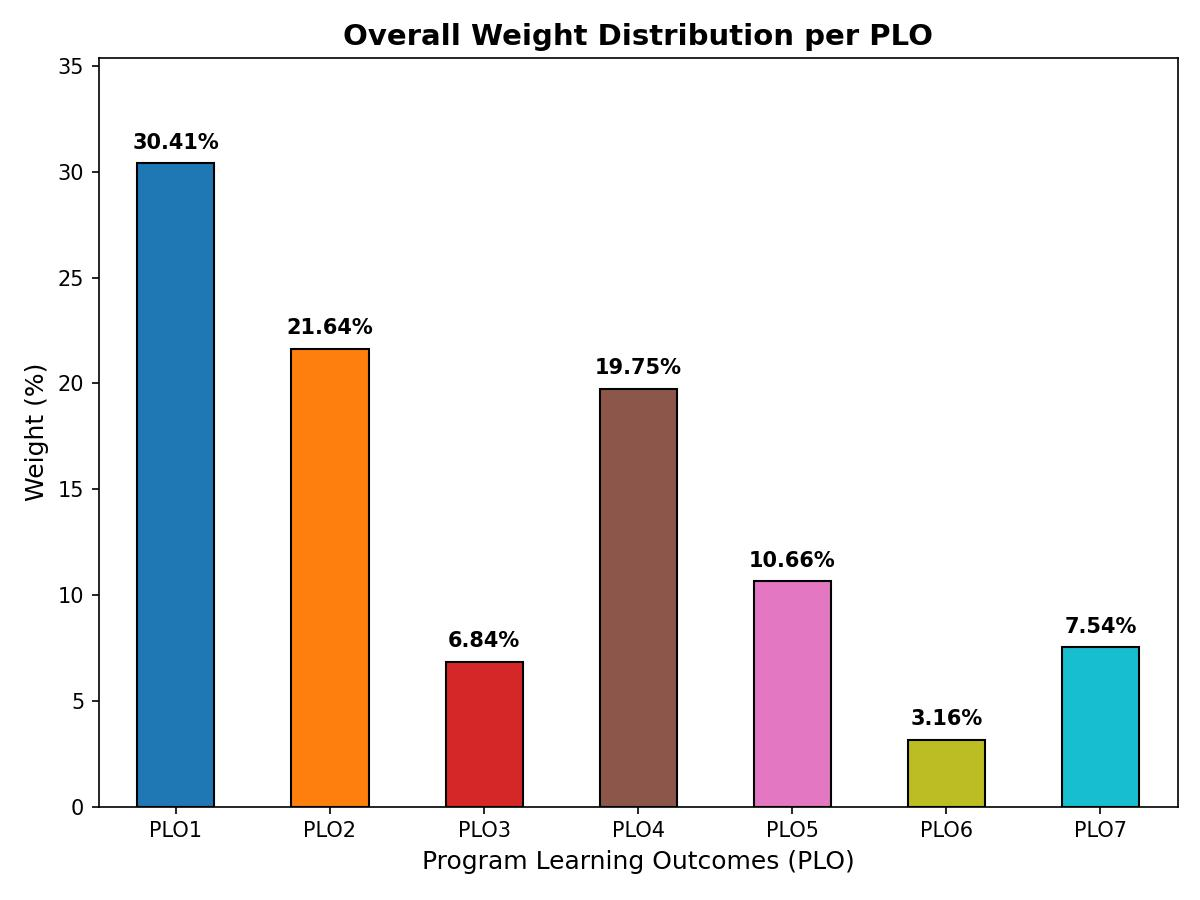
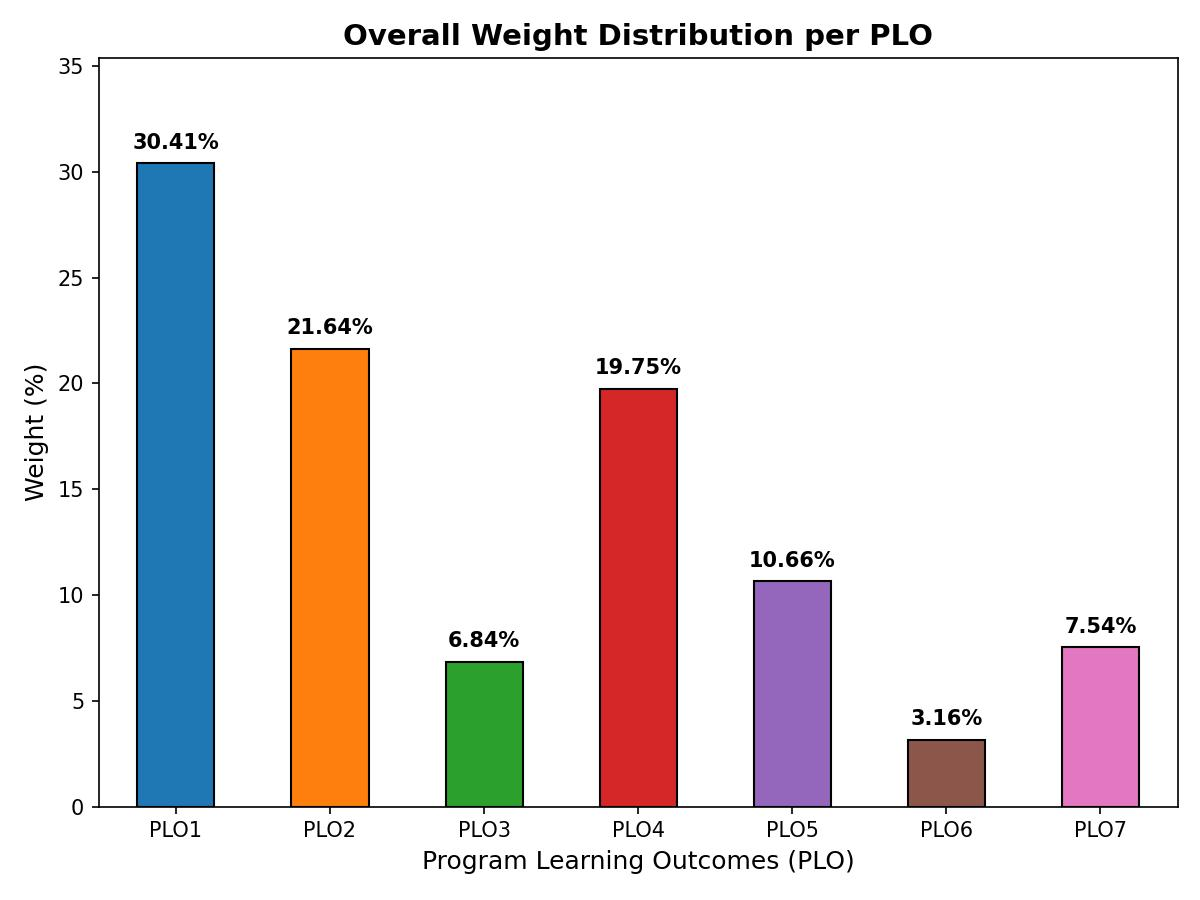
Fix Plotly div ID and colormap usage
Regenerate the Plotly div ID in plo_flow_map.html (e5b9... -> f77c...) to avoid duplicate container collisions for the Sankey plot; plo_scores.jpg was also updated. In CLOmapping_v5.py replace matplotlib.cm import with matplotlib as mpl and change color selection to use mpl.colormaps['tab10'].colors[:len(plo_weights)] so the script reliably slices the exact number of colors needed and is compatible with newer Matplotlib APIs.

diff --git a/CLOMapping/CLOmapping_v5.py b/CLOMapping/CLOmapping_v5.py
@@ -16,7 +16,7 @@ import pandas as pd
 import matplotlib.pyplot as plt
 from math import pi
 import plotly.graph_objects as go
-import matplotlib.cm as cm
+import matplotlib as mpl
 
 # EXECUTABLE PATH HANDLING ---
 # This function ensures your script looks for @data and @output
@@ -193,7 +193,8 @@ plo_weights = plo_df_saved.loc['Weight'].drop('Sum', errors='ignore')
 fig, ax = plt.subplots(figsize=(8, 6), facecolor='white')
 ax.set_facecolor('white')
 # Generate distinct colors based on the number of PLOs
-dynamic_colors = cm.get_cmap('tab10', len(plo_weights)).colors
+# Access the global colormap registry and slice the exact number of required colors
+dynamic_colors = mpl.colormaps['tab10'].colors[:len(plo_weights)]
 bars = plo_weights.plot(
         kind='bar', 
         color=dynamic_colors,